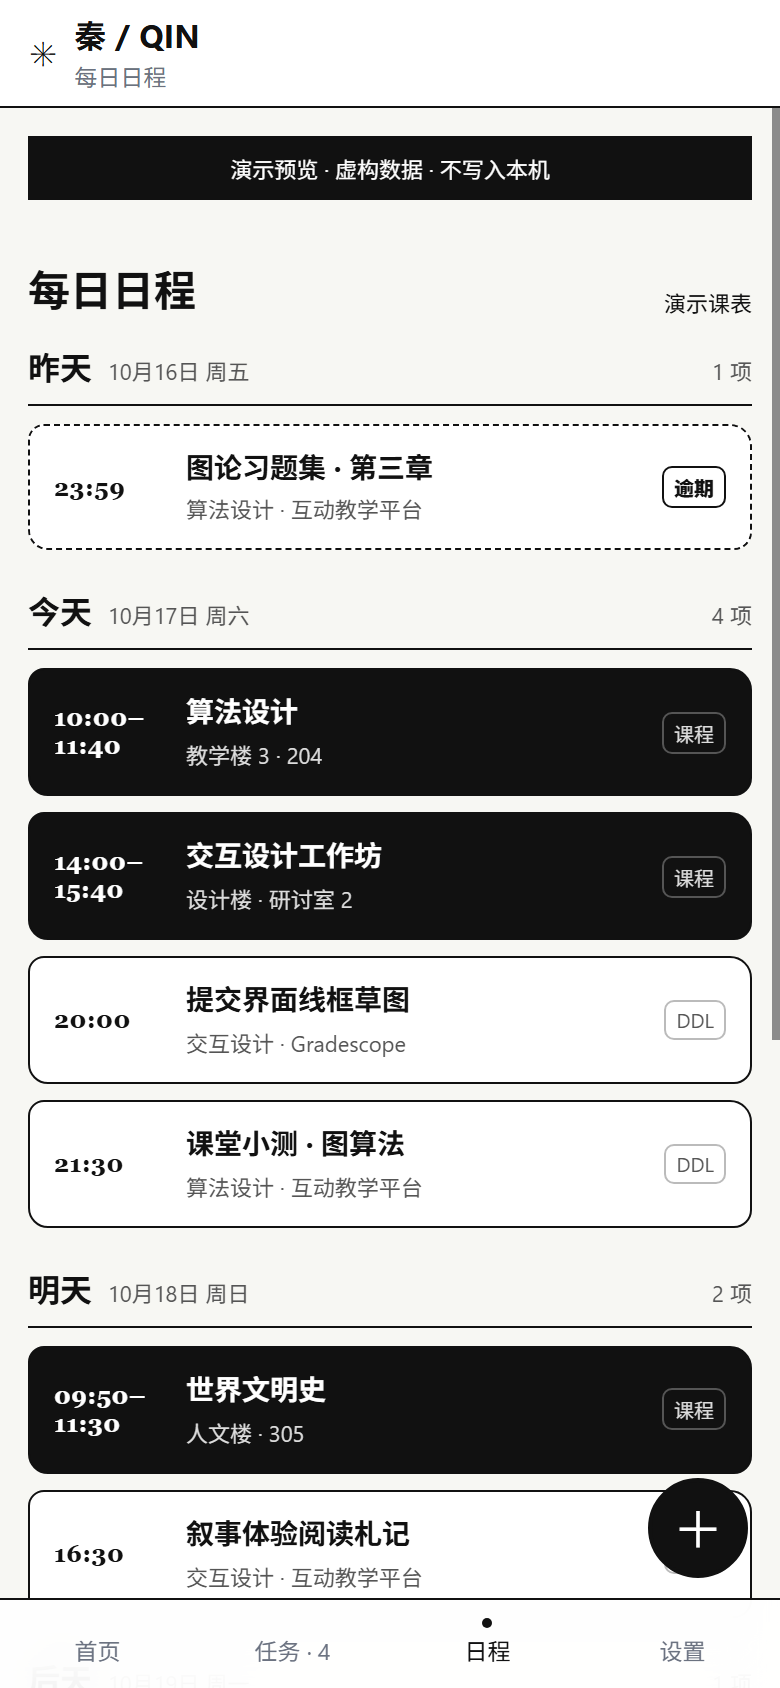
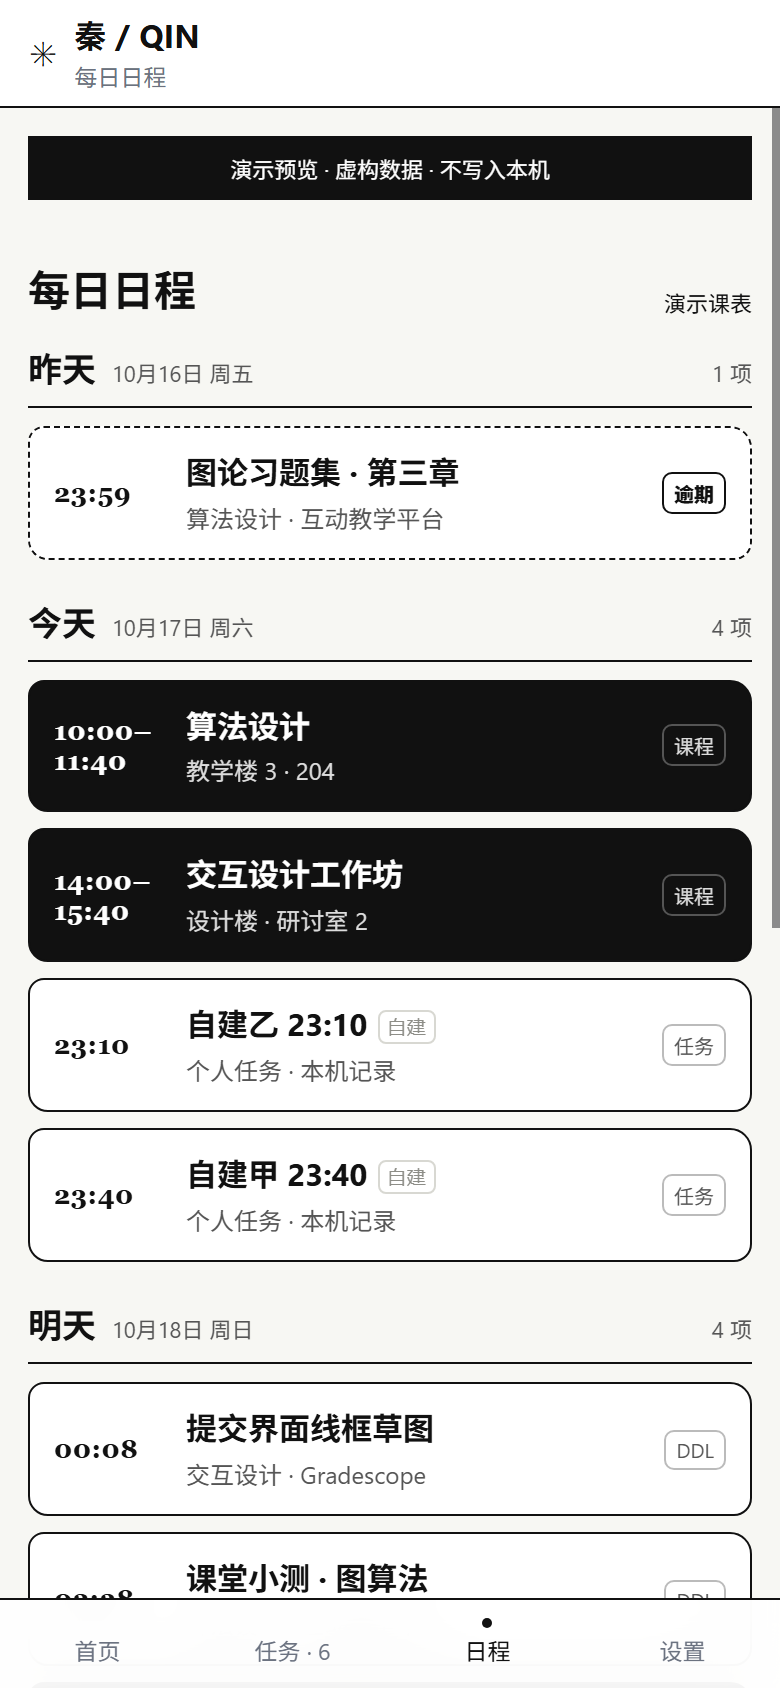
chore(dev): 日程自建条目的验证脚本与截图

diff --git a/tools/expr-schedule-selfmade.js b/tools/expr-schedule-selfmade.js
@@ -1,0 +1,50 @@
+(async () => {
+  const sleep = (ms) => new Promise((r) => setTimeout(r, ms));
+  const setValue = (el, value) => {
+    Object.getOwnPropertyDescriptor(HTMLInputElement.prototype, 'value').set.call(el, value);
+    el.dispatchEvent(new Event('input', { bubbles: true }));
+  };
+  const btn = (t) => [...document.querySelectorAll('button')].find((b) => b.textContent.includes(t));
+
+  // 新建两条自建 DDL：一条今天 23:10，一条今天 23:40
+  const add = async (title, hh, mm) => {
+    document.querySelectorAll('.tabbar button')[0].click();
+    await sleep(300);
+    document.querySelector('.quest-intro__add').click();
+    await sleep(300);
+    btn('自主添加')?.click();
+    await sleep(350);
+    setValue(document.querySelector('.sheet input[placeholder*="作业"]'), title);
+    await sleep(120);
+    const d = new Date();
+    const pad = (n) => String(n).padStart(2, '0');
+    setValue(
+      document.querySelector('.sheet input[type="datetime-local"]'),
+      `${d.getFullYear()}-${pad(d.getMonth() + 1)}-${pad(d.getDate())}T${hh}:${mm}`,
+    );
+    await sleep(150);
+    btn('保存')?.click();
+    await sleep(800);
+  };
+  await add('自建甲 23:40', '23', '40');
+  await add('自建乙 23:10', '23', '10');
+
+  document.querySelectorAll('.tabbar button')[2].click();
+  await sleep(800);
+
+  const days = [...document.querySelectorAll('.schedule-day')].map((d) => ({
+    head: (d.querySelector('.schedule-day__head')?.textContent || '').replace(/\s+/g, ' ').trim(),
+    rows: [...d.querySelectorAll('.schedule-entry')].map((e) => ({
+      time: (e.querySelector('.schedule-entry__time')?.textContent || '').trim(),
+      title: (e.querySelector('.schedule-entry__body strong')?.textContent || '').replace(/\s+/g, ' ').trim(),
+      tag: (e.querySelector('.schedule-entry__tag')?.textContent || '').trim(),
+      kind: e.dataset.kind,
+    })),
+  }));
+
+  const today = days.find((d) => d.head.includes('今天'));
+  return '今天这一天：' + (today === undefined ? '(没有今天分组)' : '')
+    + (today === undefined ? '' : '\n' + today.rows.map((r) => `  ${r.time}  ${r.title}  [${r.tag}] kind=${r.kind}`).join('\n'))
+    + '\n总天数=' + days.length + ' 总条目=' + days.reduce((n, d) => n + d.rows.length, 0)
+    + '\n时间是否升序 = ' + (today === undefined ? '-' : today.rows.every((r, i, a) => i === 0 || a[i - 1].time <= r.time));
+})()

diff --git a/tools/expr-schedule-dump.js b/tools/expr-schedule-dump.js
@@ -1,0 +1,14 @@
+(async () => {
+  const sleep = (ms) => new Promise((r) => setTimeout(r, ms));
+  document.querySelectorAll('.tabbar button')[2].click();
+  await sleep(800);
+  return [...document.querySelectorAll('.schedule-day')].map((d) => {
+    const head = (d.querySelector('.schedule-day__head')?.textContent || '').replace(/\s+/g, ' ').trim();
+    const rows = [...d.querySelectorAll('.schedule-entry')].map((e) => {
+      const t = (e.querySelector('.schedule-entry__time')?.textContent || '').trim();
+      const title = (e.querySelector('.schedule-entry__body strong')?.textContent || '').replace(/\s+/g, ' ').trim();
+      return t + ' ' + title + ' [' + e.dataset.kind + ']';
+    });
+    return head + '\n    ' + rows.join('\n    ');
+  }).join('\n');
+})()
